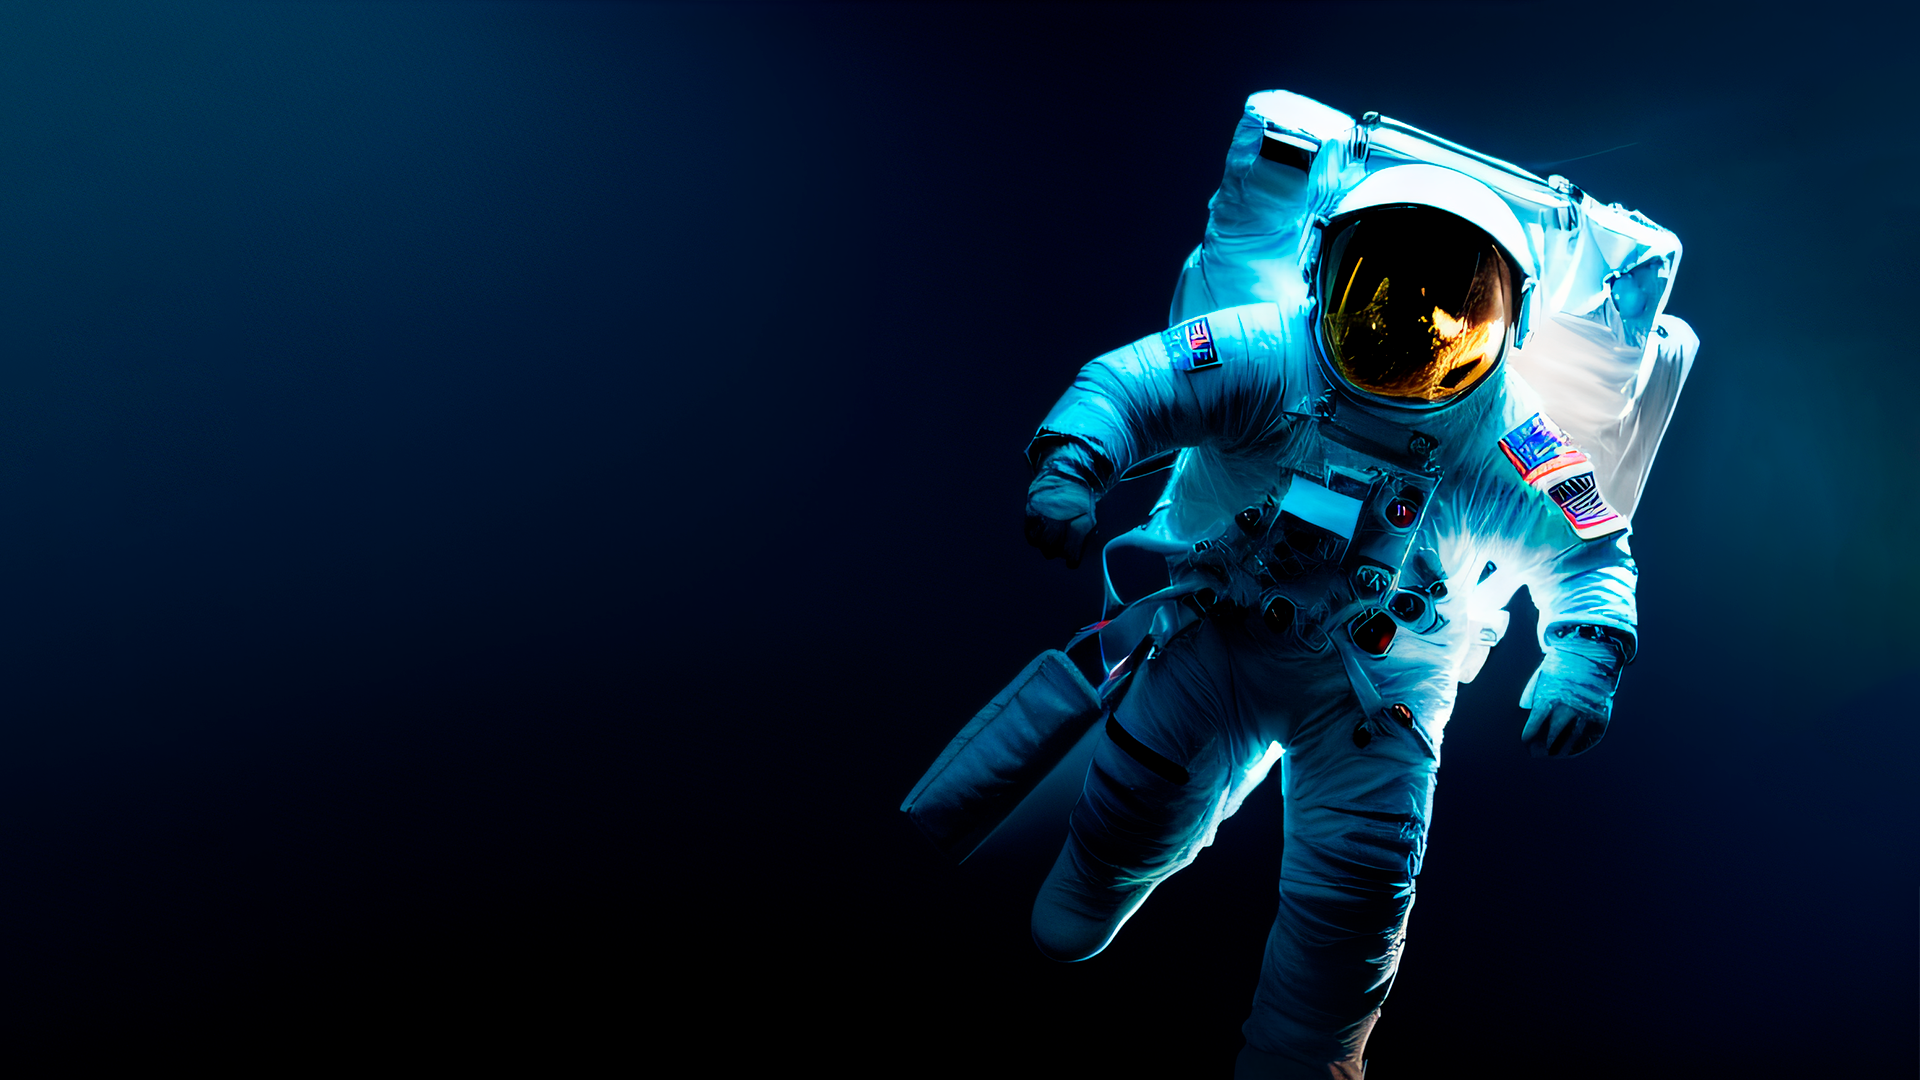
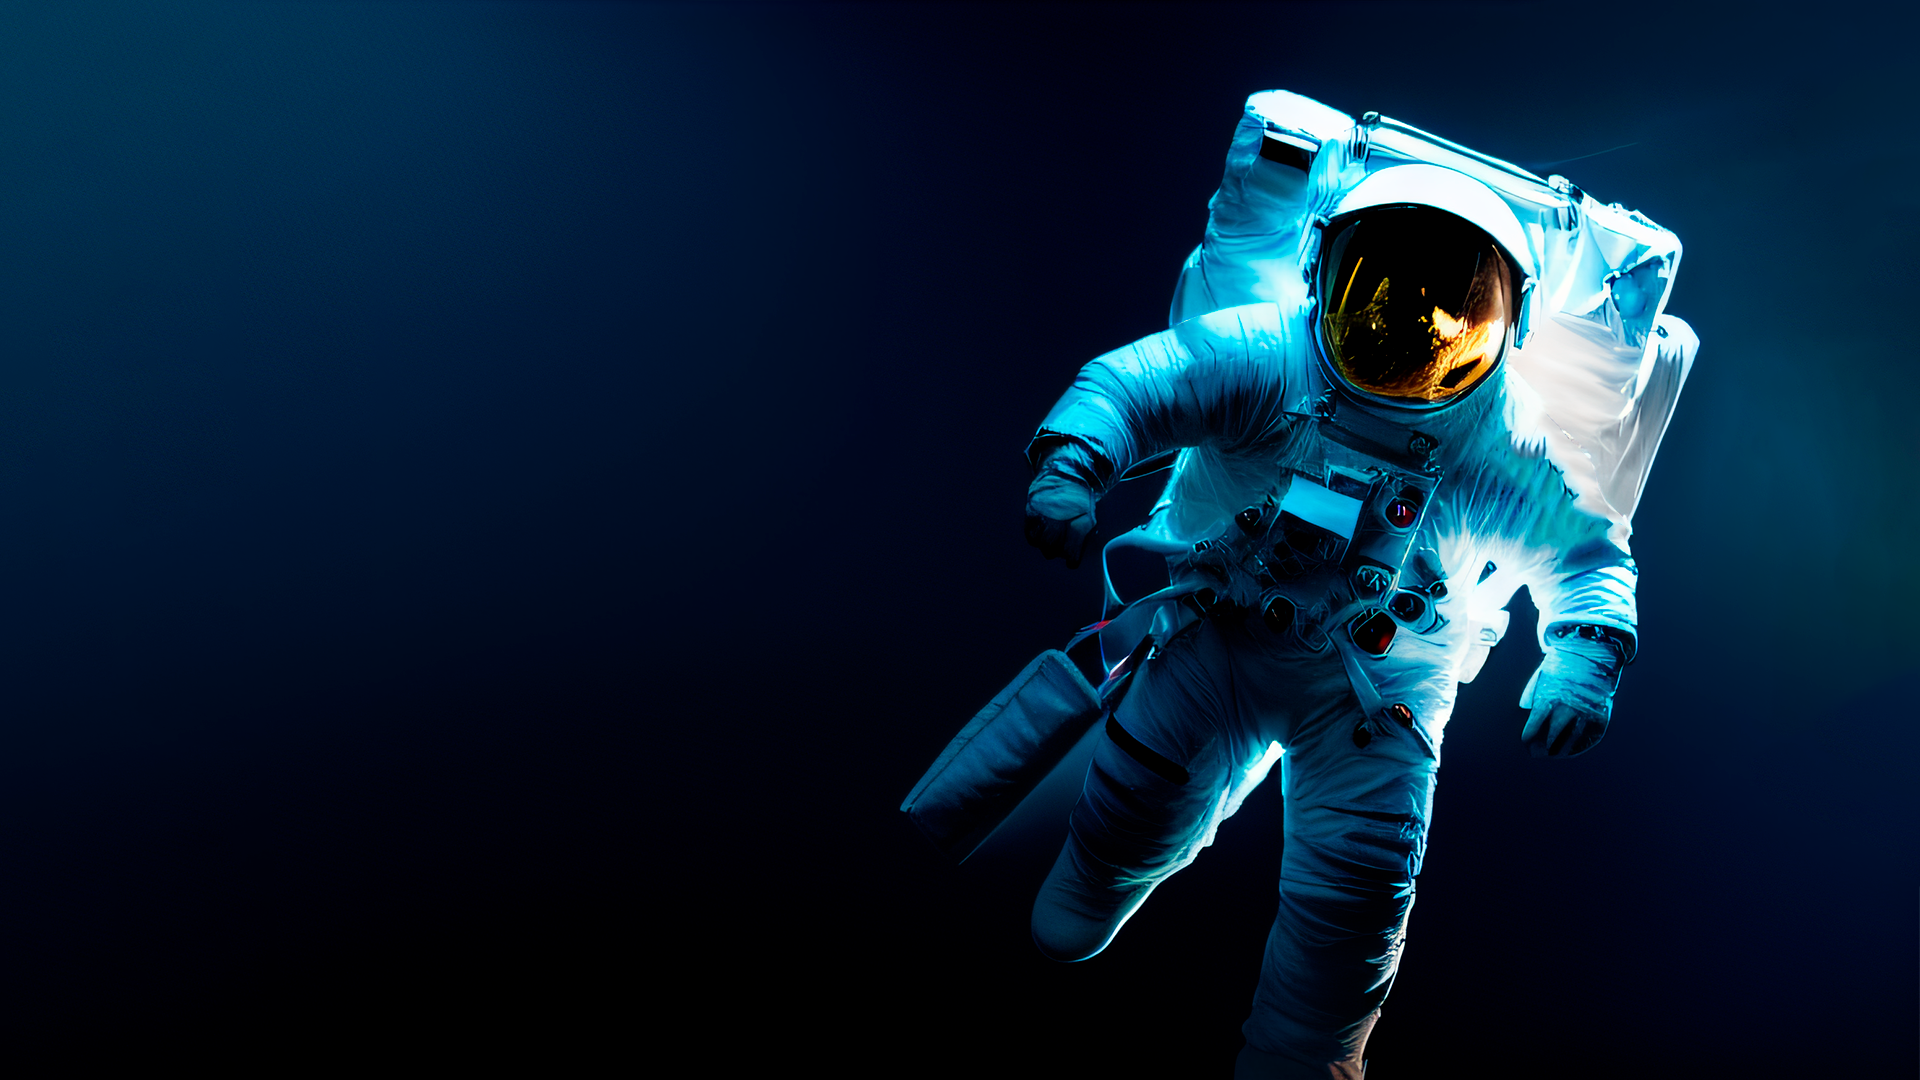
Add: Vista principal terminada, Navbar WIP

Changed region(s): [[0.7812, 0.3667, 0.8438, 0.5194], [0.5938, 0.275, 0.6562, 0.3667]]

diff --git a/frontend/nasa-asteroid-api/pages/index.vue b/frontend/nasa-asteroid-api/pages/index.vue
@@ -1,25 +1,69 @@
 <template>
     <div class="background-image">
-        
+        <!-- Crear una division responsive que tenga dos columnas, a la izquierda con texto y a la derecha nada -->
+        <div class="flex h-screen justify-center container mx-auto px-10 py-8">
+            <div class="flex flex-wrap -mx-4 content-center">
+                <div class="w-full md:w-1/2 px-4">
+                    <h1 class="text-4xl font-bold text-white leading-tight">Asteroids Near Earth</h1>
+                    <!-- Quiero que el texto tenga solo el ancho de la columna, no toda la pantalla -->
+                    <p class="text-xl break-normal text-gray-200 mt-4">Lorem ipsum dolor sit amet consectetur adipisicing elit. Reprehenderit distinctio dolore velit repudiandae doloribus, eaque hic repellat ab, architecto accusantium, consectetur ex ipsa corrupti pariatur exercitationem esse iusto atque quos?</p>
+                    <p class="text-xl break-normal text-gray-200 mt-4"> {{ counter.toLocaleString() }} Cercanos a la Tierra.</p>
+                    <div class="mt-8">
+                        <a href="dashboard" class="bg-white text-gray-800 font-bold rounded-full px-6 py-3 mr-1 shadow-lg uppercase tracking-wider hover:bg-gray-200">Free Trial</a>
+                        <a href="#" class="bg-gray-800 text-white font-bold rounded-full px-6 py-3 ml-1 shadow-lg uppercase tracking-wider hover:bg-gray-700">Signup</a>
+                    </div>
+                </div>
+                <div class="w-full md:w-1/2 px-4"></div>
+            </div>
+        </div>
     </div>
 </template>
 
-<style>
-.background-image::after {
+<style scoped>
+.background-image {
+    background-size: cover;
+    background-position: center;
+    height: 100vh;
+    z-index: 0;
+}
+
+.background-image::before {
     content: "";
     position: absolute;
     top: 0;
     left: 0;
     width: 100%;
     height: 100%;
+    background-image: url("~/static/bg-astronaut.png");
+    background-position: center;
+    background-size: cover;
+    z-index: -1;
     backdrop-filter: brightness(60%) blur(1.8px);
     -webkit-backdrop-filter: brightness(60%) blur(1.8px);
     pointer-events: none;
 }
-.background-image {
-    background-image: url("~/static/bg-astronaut.png");
-    background-size: cover;
-    background-position: center;
+
+.background-image::after{
+    content: "";
+    position: absolute;
+    top: 0;
+    left: 0;
+    width: 100%;
     height: 100vh;
+    backdrop-filter: brightness(60%) blur(1.8px);
+    -webkit-backdrop-filter: brightness(60%) blur(1.8px);
+    z-index: -1;
 }
 </style>
+
+<script setup>
+const counter = ref(578950)
+
+setInterval(() => {
+    if (counter.value < 600000) {
+        counter.value += 50
+    }
+}, 13);
+
+
+</script>

diff --git a/frontend/nasa-asteroid-api/components/nav.vue b/frontend/nasa-asteroid-api/components/nav.vue
@@ -1,0 +1,29 @@
+<template>
+    <div class="bg-white">
+        <nav class="mx-auto flex max-w-7xl items-center justify-between p-6 lg:px-8" aria-label="Global">
+            <div class="flex lg:flex-1">
+                <a href="#" class="-m-1.5 p-1.5">
+                    <span class="sr-only">Your Company</span>
+                    <img class="h-8 w-auto" src="https://tailwindui.com/img/logos/mark.svg?color=indigo&shade=600" alt="" />
+                </a>
+            </div>
+            <div class="flex lg:hidden">
+                <button type="button" class="-m-2.5 inline-flex items-center justify-center rounded-md p-2.5 text-gray-700"
+                    @click="mobileMenuOpen = true">
+                    <span class="sr-only">Open main menu</span>
+                    <Bars3Icon class="h-6 w-6" aria-hidden="true" />
+                </button>
+            </div>
+            <div class="hidden lg:flex lg:flex-1 lg:justify-end">
+                <a href="#" class="text-sm font-semibold leading-6 text-gray-900">Log in <span
+                        aria-hidden="true">&rarr;</span></a>
+            </div>
+        </nav>
+    </div>
+</template>
+
+<script setup>
+import { ref } from 'vue'
+import { Bars3Icon } from '@heroicons/vue/24/outline'
+const mobileMenuOpen = ref(false)
+</script>

diff --git a/frontend/nasa-asteroid-api/pages/dashboard.vue b/frontend/nasa-asteroid-api/pages/dashboard.vue
@@ -1,0 +1,5 @@
+<template>
+    <div class="bg-cyan-950 h-screen">
+        <Nav></Nav>
+    </div>
+</template>
